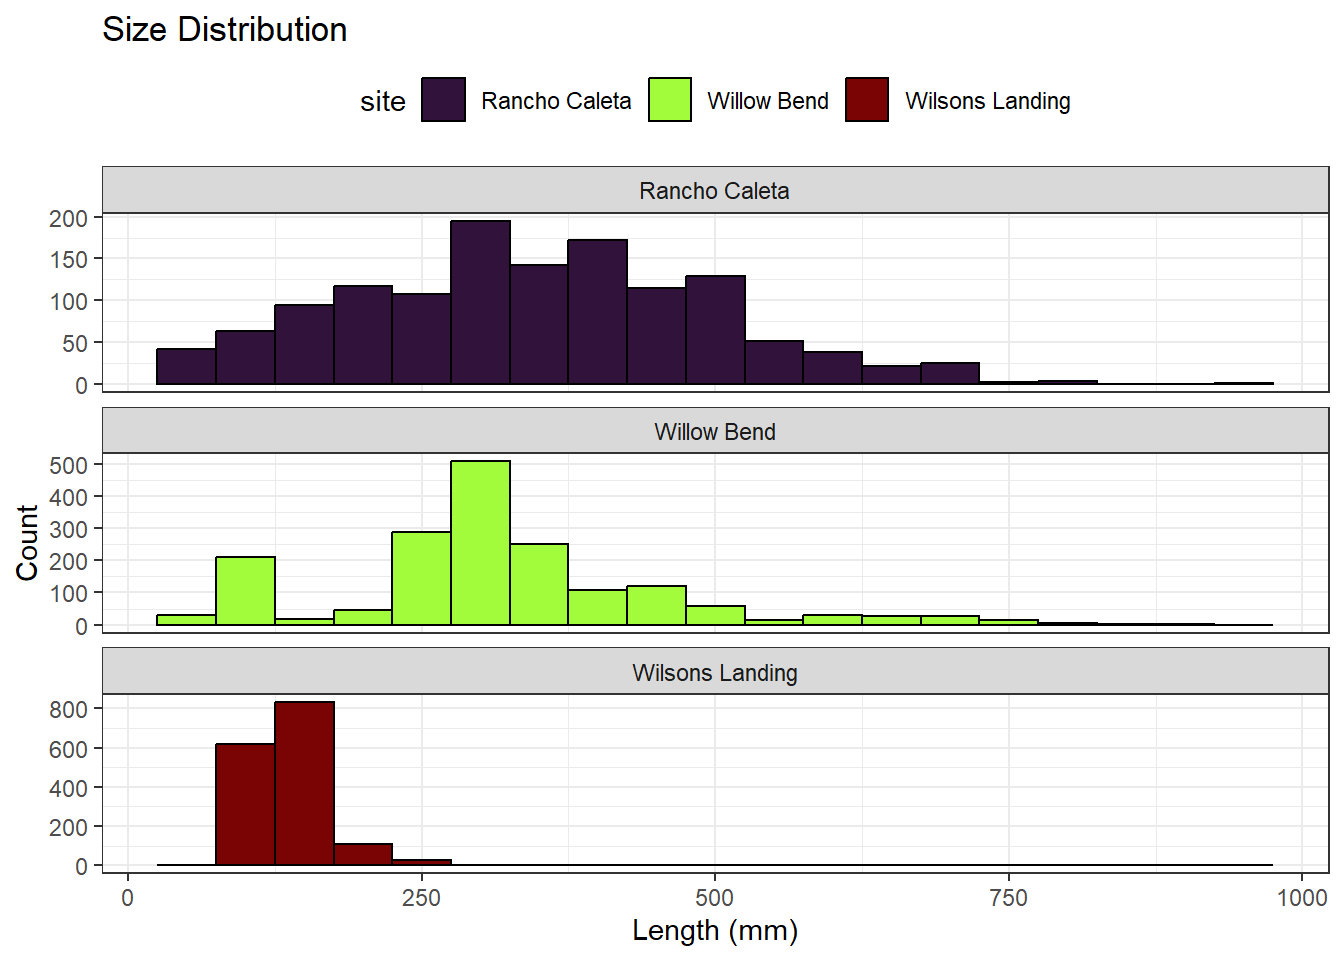
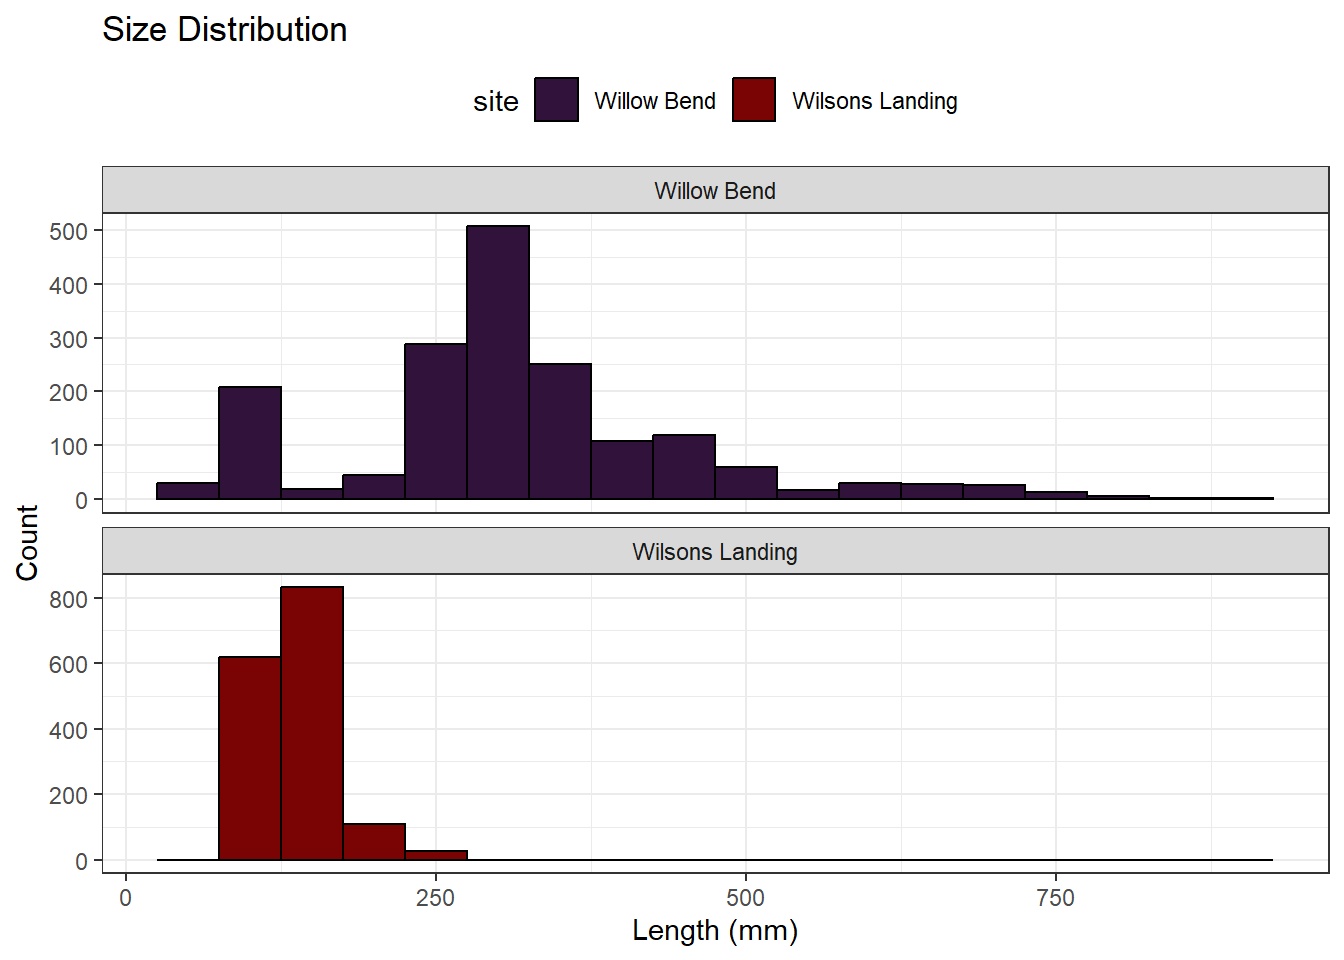
modified side channel report for appropriate stations

diff --git a/sac-side-channel-report.html b/sac-side-channel-report.html
@@ -7,7 +7,7 @@
 <meta name="viewport" content="width=device-width, initial-scale=1.0, user-scalable=yes">
 
 
-<title>Sacramento Side Channel Monitoring Report: Willow Bend, Rancho Caleta, Wilsons Landing</title>
+<title>Sacramento Side Channel Monitoring Report: Wilson Landing, Indian Fishery, Willow Bend</title>
 <style>
 /* Default styles provided by pandoc.
 ** See https://pandoc.org/MANUAL.html#variables-for-html for config info.
@@ -49,7 +49,7 @@ ul.task-list li input[type="checkbox"] {
 
 <header id="title-block-header" class="quarto-title-block default">
 <div class="quarto-title">
-<h1 class="title">Sacramento Side Channel Monitoring Report: Willow Bend, Rancho Caleta, Wilsons Landing</h1>
+<h1 class="title">Sacramento Side Channel Monitoring Report: Wilson Landing, Indian Fishery, Willow Bend</h1>
 </div>
 
 
@@ -72,9 +72,9 @@ ul.task-list li input[type="checkbox"] {
 <section id="background" class="level2">
 <h2 class="anchored" data-anchor-id="background">Background</h2>
 <ul>
-<li>Rancho Caleta</li>
-<li>Colusa Bend</li>
-<li>RJ Ranch</li>
+<li>Wilson Landing</li>
+<li>Indian Fishery</li>
+<li>Willow Bend</li>
 </ul>
 </section>
 <section id="methods" class="level2">
@@ -83,10 +83,19 @@ ul.task-list li input[type="checkbox"] {
 <h3 class="anchored" data-anchor-id="sites">Sites</h3>
 <p>Include photos and map here</p>
 </section>
+</section>
+<section id="wilson-landing" class="level2">
+<h2 class="anchored" data-anchor-id="wilson-landing">Wilson Landing</h2>
+</section>
+<section id="indian-fishery" class="level2">
+<h2 class="anchored" data-anchor-id="indian-fishery">Indian Fishery</h2>
+</section>
+<section id="willow-bend" class="level2">
+<h2 class="anchored" data-anchor-id="willow-bend">Willow Bend</h2>
 <section id="monitoring-surveys" class="level3">
 <h3 class="anchored" data-anchor-id="monitoring-surveys">Monitoring Surveys</h3>
-<p>Pre-restoration ARIS surveys occurred in April (Rancho Caleta and Willow Bend) and May (Wilsons Landing).</p>
-<p>ARIS Surveys were conducted: April 8, April 13, April 28 for Rancho Caleta; April 9, April 15, April 29 for Willow Bend; May 1, May 4, May 8 for Wilsons Landing</p>
+<p>Pre-restoration ARIS surveys occurred in April (Willow Bend) and May (Wilsons Landing).</p>
+<p>ARIS Surveys were conducted: April 9, April 15, April 29 for Willow Bend; May 1, May 4, May 8 for Wilsons Landing</p>
 <p>Surveys generally occurred from 7:00 or 8:00 until 15:00.</p>
 <section id="aris-deployment" class="level4">
 <h4 class="anchored" data-anchor-id="aris-deployment">ARIS Deployment</h4>
@@ -173,7 +182,7 @@ Figure&nbsp;3: Daily Turbidity (NTU) Data and ‘Discrete’ Turbidity Data asso
 <img src="sac-side-channel-report_files/figure-html/fig-aris-hourly-counts-1.png" class="img-fluid figure-img" width="672">
 </div>
 <figcaption class="quarto-float-caption-bottom quarto-float-caption quarto-float-fig" id="fig-aris-hourly-counts-caption-0ceaefa1-69ba-4598-a22c-09a6ac19f8ca">
-Figure&nbsp;4: Average Hourly Passage in April (Willow Bend, Rancho Coleta) and May (Wilsons Landing). Three days of sampling were conducted for each site.
+Figure&nbsp;4: Average Hourly Passage in April (Willow Bend) and May (Wilsons Landing). Three days of sampling were conducted for each site.
 </figcaption>
 </figure>
 </div>
@@ -187,7 +196,7 @@ Figure&nbsp;4: Average Hourly Passage in April (Willow Bend, Rancho Coleta) and 
 <img src="sac-side-channel-report_files/figure-html/fig-aris-daily-passage-1.png" class="img-fluid figure-img" width="672">
 </div>
 <figcaption class="quarto-float-caption-bottom quarto-float-caption quarto-float-fig" id="fig-aris-daily-passage-caption-0ceaefa1-69ba-4598-a22c-09a6ac19f8ca">
-Figure&nbsp;5: Average Daily Passage in April (Willow Bend, Rancho Caleta) and May (Wilsons Landing). Three days of sampling were conducted for each site.
+Figure&nbsp;5: Average Daily Passage in April (Willow Bend) and May (Wilsons Landing). Three days of sampling were conducted for each site.
 </figcaption>
 </figure>
 </div>
@@ -249,8 +258,10 @@ Figure&nbsp;8: Fish Behavior Boxplot determined from ARIS
 <h4 class="anchored" data-anchor-id="shoreline-utilization-occupancy">Shoreline Utilization (Occupancy)</h4>
 <p>This will look like a boxplot of “fish seconds” per hour</p>
 <p>Also a plot of fish group size by time in view</p>
-<p>Potentially relate hydro/temp and daily passage data</p>
 </section>
+</section>
+<section id="potentially-relate-hydrotemp-and-daily-passage-data" class="level3">
+<h3 class="anchored" data-anchor-id="potentially-relate-hydrotemp-and-daily-passage-data">Potentially relate hydro/temp and daily passage data</h3>
 </section>
 <section id="beach-seine" class="level3">
 <h3 class="anchored" data-anchor-id="beach-seine">Beach Seine</h3>
